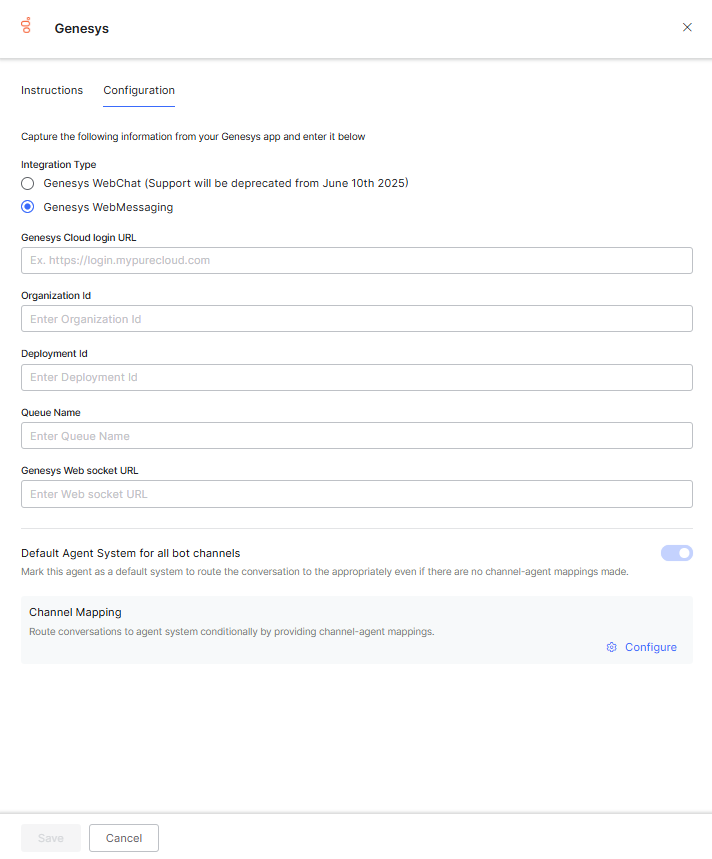
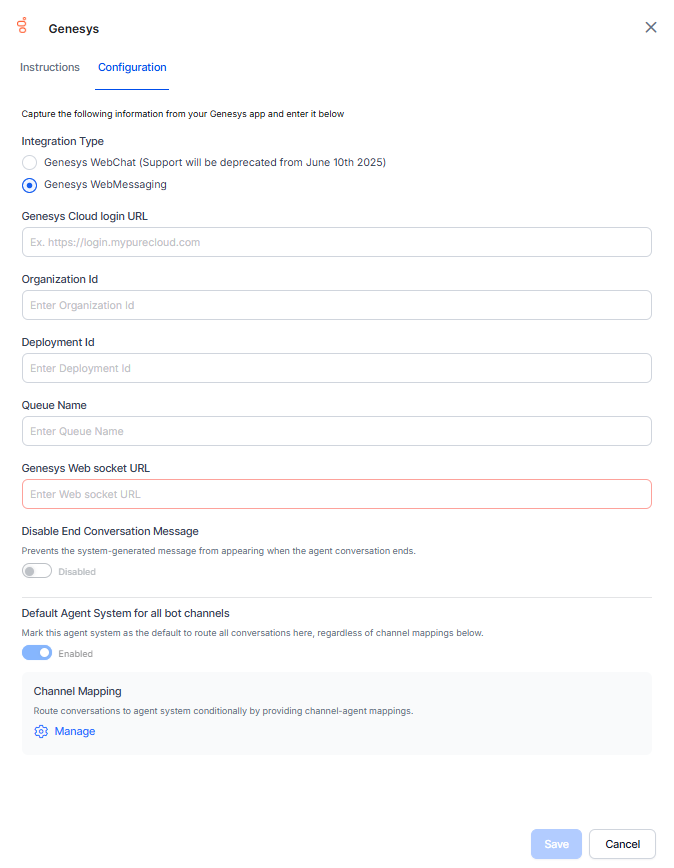
Automation AI enhancements

diff --git a/docs/xo/channels/add-whatsapp-business-channel.md b/docs/xo/channels/add-whatsapp-business-channel.md
@@ -43,29 +43,37 @@ Steps to configure **Infobip**:
 <img src="../images/whatsapp5.png" alt="deploy infobip" title="deploy infobip " style="border: 1px solid gray; zoom:70%;">
 
 7. Next, to add Infobip’s **Base URL**, follow these steps:
-   
 
     * On the Platform, go to **Channels and Flows** > **Channels** > **Digital** > **All** and click **WhatsApp Business Messaging**.
-    * On the **WhatsApp Business Messaging** panel, click the **Configurations** tab and provide inputs for the following fields:
+    * On the **WhatsApp Business Messaging** panel, select the **Configurations** tab and provide inputs for the following fields:
         * **Messaging Partner**: Select **Infobip** from the dropdown list.
-        * **Phone Number**: Copy and paste the number displayed on the **Infobip** portal for your account under the **Connect** section (please refer to step 3). The Platform now supports **adding multiple phone numbers on the WhatsApp Messaging Channel** for the same AI Agent. The AI Agent responds to only the source number from which it receives the message rather than a common phone number. [Learn more](whatsapp-support-for-multiple-phone-numbers.md).
-        * **Base URL**: Copy the Base URL from this page. Use this URL sends messages when the **WhatsApp Business Messaging** channel is enabled.
-        <img src="../images/whatsapp7.png" alt="infobip messaging partner" title="infobip messaging partner" style="border: 1px solid gray; zoom:70%;">
+        * **Infobip API**: Select the type of Infobip API used for communication purposes. Available options are **WhatsApp Outbound API** and **Omni Failover API**.
+        * **Channel-based Sessions**: Enable this toggle to treat each inbound number as an independent channel. Conversations with the same number continue within the existing session, while interactions with a different number start a new session. This toggle is available only for Infobip. 
 
+        !!! note
+            When the Channel-based Sessions toggle is enabled for existing apps, it disrupts ongoing sessions if inbound numbers are already linked to experience flows.
 
-        * **Username and Password**: The username and password of the **Infobip** account holder. Infobip’s API requires authentication and uses the basic authorization for sending and receiving messages over the API with these values.
         * **Webhook URL**: Copy the webhook URL provided in the configuration tab and update the same on the **Infobip developer portal** for Infobip to send the received messages from the subscriber (WhatsApp Business Messaging).
         <img src="../images/whatsapp8.png" alt="infobip API" title="infobip API" style="border: 1px solid gray; zoom:70%;">  
 
-        * Enable **Proactive Notifications** to send relevant updates to the users without requiring them to initiate interaction with the app first.
+        *  Within the Accounts section, configure Infobip account details (the platform supports the addition of up to 10 Infobip accounts) as follows:
 
-        * Select **Yes** to enable the **WhatsApp Business Messaging** channel.
-    * Click **Save** to complete the integration setup.
-    <img src="../images/whatsapp9.png" alt="save infobip configuration" title="save infobip configuration" style="border: 1px solid gray; zoom:70%;">
+            * **Name**: The name of the Infobip account.
+            * **Phone Number**: Copy and paste the number displayed on the **Infobip** portal for your account under the **Connect** section (please refer to step 3). The Platform now supports **adding multiple phone numbers on the WhatsApp Messaging Channel** for the same AI Agent. The AI Agent responds to only the source number from which it receives the message rather than a common phone number. [Learn more](whatsapp-support-for-multiple-phone-numbers.md).
+            * **Base URL**: Copy the Base URL from this page. Use this URL sends messages when the **WhatsApp Business Messaging** channel is enabled.
+            <img src="../images/whatsapp7.png" alt="infobip messaging partner" title="infobip messaging partner" style="border: 1px solid gray; zoom:70%;">
 
-    !!! note
 
-          If you’re using the development sandbox on Infobip, once the channel is enabled and published, you will need to send messages in the format '[Keyword on infobip][User input]' For example, “Platform Hi”.
+            * **Username and Password**: The username and password of the **Infobip** account holder. Infobip’s API requires authentication and uses the basic authorization for sending and receiving messages over the API with these values.
+
+            * Enable **Proactive Notifications** to send relevant updates to the users without requiring them to initiate interaction with the app first.
+
+            * Select **Save** to complete the integration setup. To add another account, select **+ Add** and follow the same steps again. Each account can have multiple inbound numbers. You can disable or delete any account using the icons next to it. If you disable an account and its inbound numbers are being used in active experience flows, it may affect ongoing sessions.
+
+                <img src="../images/whatsapp9.png" alt="save infobip configuration" title="save infobip configuration" style="border: 1px solid gray; zoom:70%;">
+
+            !!! note
+                  If you’re using the development sandbox on Infobip, once the channel is enabled and published, you will need to send messages in the format '[Keyword on infobip][User input]'. For example, “Platform Hi”.
 
 
 

diff --git a/docs/xo/apis/contact-center/update-queue-priority.md b/docs/xo/apis/contact-center/update-queue-priority.md
@@ -1,0 +1,83 @@
+--8<-- "includes/ccai-api-back-link.md"
+
+# Update Queue Priority API
+
+To update the queue priorities on a scale of 1 to 10.
+
+
+| **METHOD**          | **PUT**                                               |
+|-----------------|------------------------------------------------------|
+| **Endpoint**       | `https://{{host}}/agentassist/api/v1/public/{{streamId}}/queues/dynamicqueues/priorities` |
+| **Content Type**    | `application/json`                                   |
+| **Authorization**   | `auth: {{JWT}}`<br>See [How to generate the JWT Token](../automation/api-introduction.md#generating-the-jwt-token) |
+| **API Scope**       | Configuration                                        |
+
+## Path Parameters
+
+| **Parameter** | **Description**                                       | **Type**/**Required**  |
+|---------------|-------------------------------------------------------|------------|
+| `host`          | Environment URL, for example, `https://platform.kore.ai` | string, required |
+| `streamId`         | botId or streamId. You can get it from the App Settings page. | string, required |
+
+## Sample Request
+
+```bash
+curl --location --request PUT 'https://{{host}}/agentassist/api/v1/public/{{streamId}}/queues/dynamicqueues/priorities' \
+--header 'accept: application/json, text/plain, /' \
+--header 'accept-language: en-US,en;q=0.9' \
+--header 'accountId: {{AccountId}}' \
+--header 'app-language: en' \
+--header 'content-type: application/json;charset=UTF-8' \
+--header 'auth: {{jwt_token}}' \
+--header 'iId: st-ceb5fb14-37eb-54a8-a32d-1d751cxxxxxx' \
+--data '{
+    "queuePriorityData": [
+        {
+            "queueId": "qu-e30b539-dd3c-4e10-90a9-354a3e7xxxxx",
+            "priority": 6
+        },
+        {
+            "queueId":"qu-e079499-2c0d-4709-b312-3682b30xxxxx",
+            "priority": 3
+        }
+
+        
+    ]
+}    
+'
+```
+
+## Header Parameters
+
+| **Parameter**        | **Description**                                                                 | **Optional/Required** |
+|-----------------|-----------------------------------------------------------------------------|-------------------|
+| `auth`            | A token to authenticate and authorize the user with the server.             | required          |
+| `accept-language` | Indicates the preferred language for the response.                          | optional          |
+| `app-language`    | The language the application must use for the request.                    | optional          |
+| `accountId`       | Unique account identifier.                                                  | required          |
+| `Content-Type`    | Represents the type of data present in the request body.                    | required          |
+| `iId`             | Agent ID or Stream ID.                                                       | required          |
+
+## Request Body Parameters
+
+| **Parameter**                   | **Description**                                                                                                      | **Type**              |
+|----------------------------|------------------------------------------------------------------------------------------------------------------|-------------------|
+| `queuePriorityData`          | List of queue-priority mappings used to influence routing order.                                                 | array of objects  |
+| `queuePriorityData.queueId`  | Unique identifier of the queue for which the priority is defined.                                                | string, required  |
+| `queuePriorityData.priority` | Numeric value indicating the priority assigned to the queue. Acceptable priority values range from 1 to 10.     | integer, required |
+
+## Sample Response 
+
+```json
+{
+   "updatedCount": 2,
+   "updatedQueueIds": ["qu-e30b539-dd3c-4e10-90a9-354a3e7xxxxx", "qu-e079499-2c0d-4709-b312-3682b30xxxxx"]
+}
+```
+
+## Response Parameters
+
+| **Parameter**        | **Data type**        | **Description**                                                       | **Example**                                                                                                      |
+|------------------|------------------|-------------------------------------------------------------------|--------------------------------------------------------------------------------------------------------------|
+| `updatedCount`     | integer          | Total number of queues that were successfully updated.            | 2                                                                                                            |
+| `updatedQueueIds`  | array of strings | List of queue identifiers whose priority values were updated.     | ["qu-e30b539-dd3c-4e10-90a9-354a3e7xxxxx", "qu-e079499-2c0d-4709-b312-3682b30xxxxx"] |

diff --git a/docs/xo/app-settings/integrations/agents/configuring-the-genesys-agent.md b/docs/xo/app-settings/integrations/agents/configuring-the-genesys-agent.md
@@ -116,16 +116,18 @@ To configure the agent, follow these steps:
         <img src="../images/genesys-at.png" alt="Enter Genesys agent credentials" title="Enter Genesys agent credentials" style="border: 1px solid gray;"> 
 
 
-5. If you want to make Genesys the default agent, enable the **Default Agent System for all bot channels** option. 
+5. If you want to suppress the session closure message after an agent conversation ends, enable the **Disable End Conversation Message** option.
+
+6. If you want to make Genesys the default agent, enable the **Default Agent System for all bot channels** option. 
  Note:  This option is available only when you have multiple agents configured for your AI Agent. 
  
 
-6. You can customize the channel mapping by clicking the **Manage** link. 
+7. You can customize the channel mapping by clicking the **Manage** link. 
 
-7. Once you click **Manage**, you can map the channels you want the Genesys agent to hand over the conversations. To learn more about channel enablement, see[ Adding channels to your app](../../../channels/adding-channels-to-your-bot.md).
-8. After mapping channels, click **Done**.
-9. Click **Save** to enable the Genesys agent.
-10. Publish the App. For more information, see [Publishing App](../../../deploy/publishing-bot.md){:target="_blank"}.
+8. Once you click **Manage**, you can map the channels you want the Genesys agent to hand over the conversations. To learn more about channel enablement, see[ Adding channels to your app](../../../channels/adding-channels-to-your-bot.md).
+9. After mapping channels, click **Done**.
+10. Click **Save** to enable the Genesys agent.
+11. Publish the App. For more information, see [Publishing App](../../../deploy/publishing-bot.md){:target="_blank"}.
 
 
 ## Execution

diff --git a/docs/xo/automation/agent-node/working-with-agent-node.md b/docs/xo/automation/agent-node/working-with-agent-node.md
@@ -64,7 +64,7 @@ Adjusting the settings allows you to fine-tune the model’s behavior to meet yo
 
 * **Model**: The selected model for which the settings are displayed.
 * **Prompt/Instructions or Context**: Add feature/use case-specific instructions or context to guide the model.
-* **Conversation History Length**: This setting allows you to specify the number of recent messages sent to the LLM as context. These messages include both user messages and AI Agent messages. The default value is 10. This conversation history can be seen from the debug logs. 
+* **Conversation History Length**: This setting allows you to specify the number of recent messages sent to the LLM as context, , with a maximum limit of 50. These messages include both user messages and AI Agent messages. The default value is 10. This conversation history can be seen from the debug logs. 
 **Note**: Applicable only if you are using a custom prompt. 
 * **Temperature**: The setting controls the randomness of the model’s output. A higher temperature, like 0.8 or above, can result in unexpected, creative, and less relevant responses. On the other hand, a lower temperature, like 0.5 or below, makes the output more focused and relevant.
 * **Max Tokens**: It indicates the total number of tokens used in the API call to the model. It affects the cost and the time taken to receive a response. A token can be as short as one character or as long as one word, depending on the text.

diff --git a/docs/xo/automation/dialog-gpt-based-orchestration.md b/docs/xo/automation/dialog-gpt-based-orchestration.md
@@ -76,7 +76,7 @@ The embeddings model settings applies only to Dialogs and FAQs. For Knowledge fr
 5. (Optional) click Show Advanced Settings to view and adjust the Similarity Threshold and Proximity Threshold. In most cases, the default settings work fine.
 6. (Only if Knowledge from Search AI is selected in step no 2 ) Define the maximum number of chunks to be shortlisted from Search AI. These chunks are send to the LLM for answer generation. The default value is 5. Click "Go to Search AI" to access the Search AI retrieval settings.
 7. In the **Model Configuration** section, select the  **Conversation Management** **Model** and the **Prompt**, which determines the user intent and the execution plan.
-7. (Optional) click Show Advanced Settings to view and set the Temperature, Max Tokens, and Conversation History Length. In most cases, the default settings work fine.
+7. (Optional) click Show Advanced Settings to view and set the Temperature, Max Tokens, and Conversation History Length  (with a maximum limit of 50). In most cases, the default settings work fine.
 8. Click **Enable DialogGPT**. The DialogGPT home page is displayed.  
 <img src="../images/gpt4.png" alt="DialogGPT" title="" style="border: 1px solid gray; zoom:70%;"> 
 9. To disable DialogGPT, click the **More** icon (three dots) in the top right corner and then click Disable DialogGPT. The Disable DialogGPT pop-up is displayed.  

diff --git a/docs/xo/apis/contact-center/api-list.md b/docs/xo/apis/contact-center/api-list.md
@@ -121,6 +121,7 @@ The following tables list the APIs available for Contact Center AI, grouped by t
 | [Get a Specific Queue](../contact-center/get-a-specific-queue.md)                                                   | To get a specific queue with the given streamId and queueId.                                                 | Configuration        |
 | [Update a Specific Queue](../contact-center/update-a-specific-queue.md)                                             | To update a specific queue with the given streamId and queueId.                                               | Configuration        |
 | [Delete a Queue](../contact-center/delete-a-queue.md)                                                               | To delete a specific queue with the given streamId and queueId.                                               | Configuration        |
+| [Update Queue Priority](../contact-center/update-queue-priority.md)                                                               | To update the queue priorities on a scale of 1 to 10.                                               | Configuration        |
 
 ### WFM APIs
 
